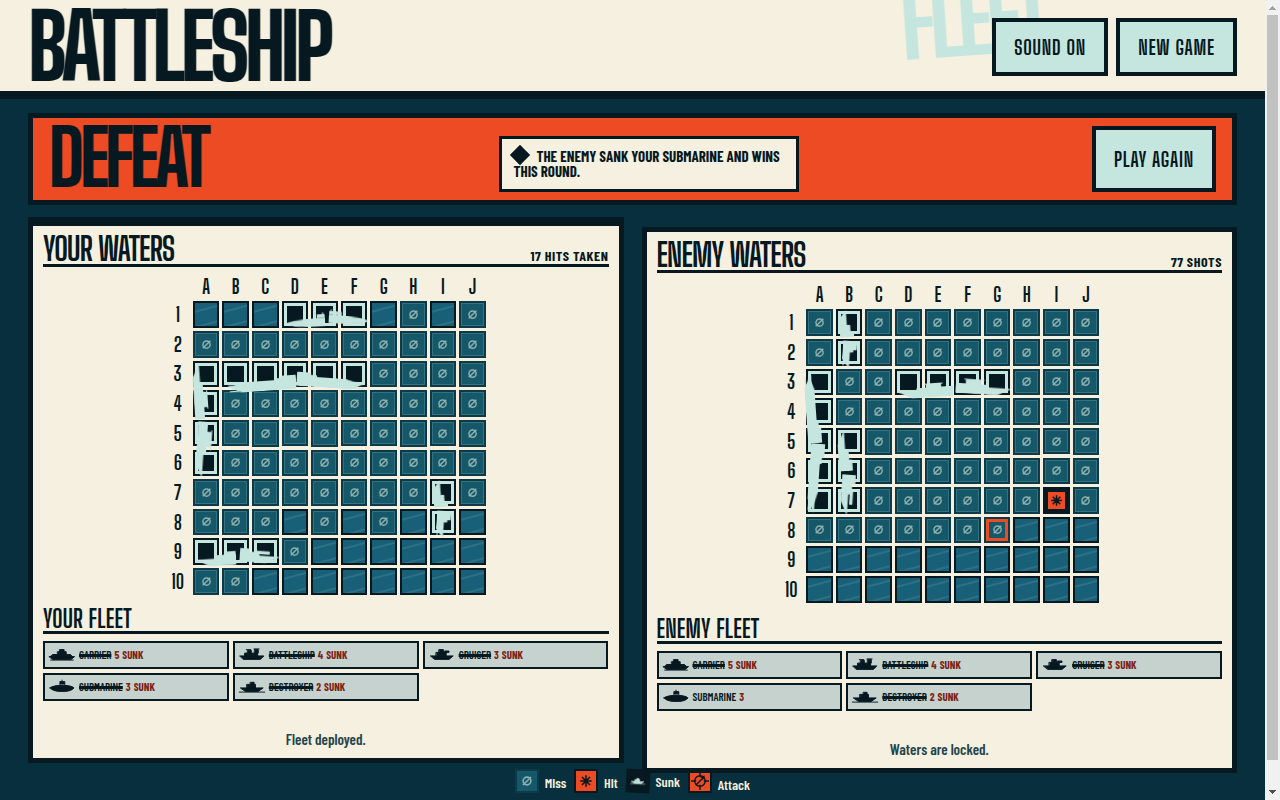
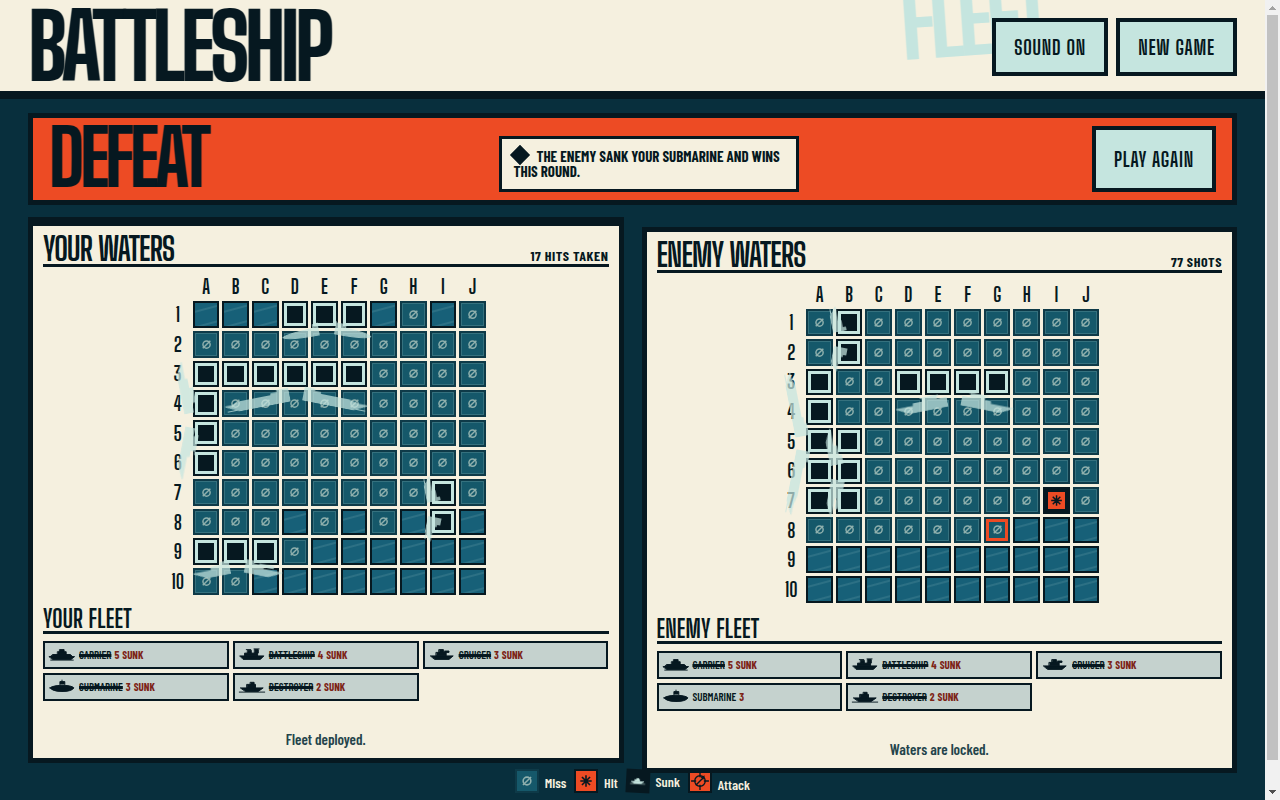
Strengthen sinking wreck fracture

diff --git a/src/styles.css b/src/styles.css
@@ -582,13 +582,13 @@ kbd {
 }
 
 .cell-vessel-half-a {
-  clip-path: inset(0 48% 0 0);
+  clip-path: inset(0 50% 0 0);
   transform-origin: right center;
   animation: wreck-half-a 620ms ease-out forwards;
 }
 
 .cell-vessel-half-b {
-  clip-path: inset(0 0 0 48%);
+  clip-path: inset(0 0 0 50%);
   transform-origin: left center;
   animation: wreck-half-b 620ms ease-out forwards;
 }
@@ -602,19 +602,23 @@ kbd {
 
 @keyframes wreck-half-a {
   from {
+    opacity: 1;
     transform: translate(0, 0) rotate(0deg);
   }
   to {
-    transform: translate(-4px, 2px) rotate(-4deg);
+    opacity: 0.72;
+    transform: translate(-9px, 6px) rotate(-11deg);
   }
 }
 
 @keyframes wreck-half-b {
   from {
+    opacity: 1;
     transform: translate(0, 0) rotate(0deg);
   }
   to {
-    transform: translate(4px, -1px) rotate(4deg);
+    opacity: 0.72;
+    transform: translate(9px, 5px) rotate(11deg);
   }
 }
 
@@ -825,12 +829,14 @@ kbd {
 @media (prefers-reduced-motion: reduce) {
   .cell-vessel-half-a {
     animation: none;
-    transform: translate(-4px, 2px) rotate(-4deg);
+    opacity: 0.72;
+    transform: translate(-9px, 6px) rotate(-11deg);
   }
 
   .cell-vessel-half-b {
     animation: none;
-    transform: translate(4px, -1px) rotate(4deg);
+    opacity: 0.72;
+    transform: translate(9px, 5px) rotate(11deg);
   }
 
   *,

diff --git a/DESIGN.md b/DESIGN.md
@@ -32,8 +32,9 @@ active call to action and combat states.
 - Sunk hulls use the full class silhouette without repeating boxed-saltire
   marks; the legend uses a compact vessel silhouette for that reveal grammar.
 - A newly sunk vessel fractures into two authored flat-profile halves over
-  roughly 620ms, then remains split and tilted as a readable wreck. Reduced
-  motion skips directly to the broken resting state.
+  roughly 620ms: a hard central gap opens, the bow and stern list apart and
+  settle lower with reduced presence, then remain split as a readable wreck.
+  Reduced motion skips directly to the broken resting state.
 - Fired states stay value-separated on petrol water: a quiet flattened-water
   miss, hot orange hit, and dead ink sunk. The legend mirrors the exact
   authored marks, and fleet chips use a compact three-column/two-row rhythm at
